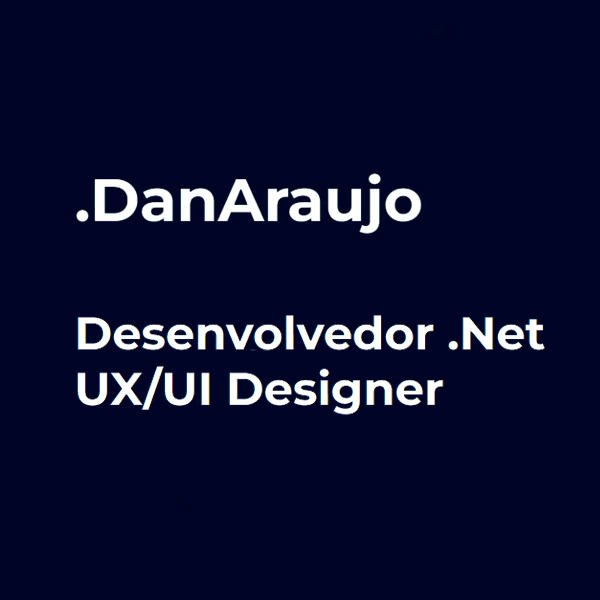
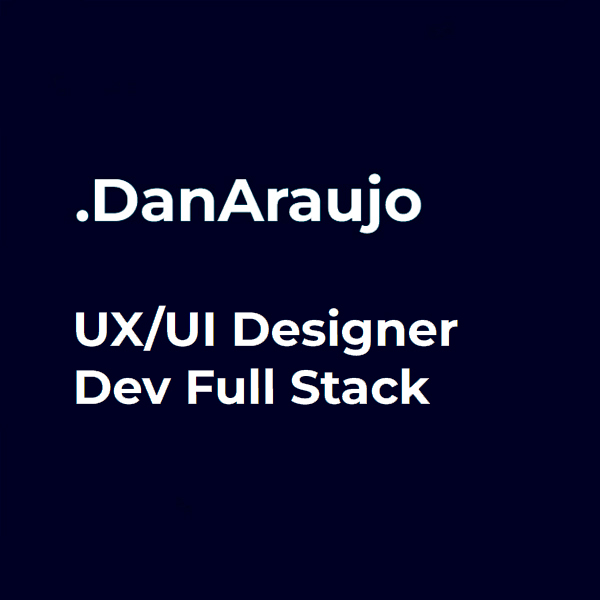
UP textos

Changed region(s): [[0.12, 0.51, 0.9, 0.69]]

diff --git a/index.html b/index.html
@@ -8,7 +8,7 @@
   <meta content="Descrição"
     name="Olá! Eu sou o Danilo Araujo, bacharel em Design com ênfase em Programação Visual pela Universidade Presbiteriana Mackenzie, em São Paulo. Estudante nos cursos Análise e Desenvolvimento de Sistemas pela UNINTER, e Pós-Graduação UX Design pela Universidade Senac São Paulo.">
   <meta content="keywords"
-    name="Freelancer, Programador, Desenvolvedor .Net, C#, UX/UI Design, UX UI Design, Figma, UX Designer, UX Design, UI Designer, UI Design, Danilo Araujo">
+    name="Freelancer, Programador, Desenvolvedor Full Stack, C#, UX/UI Design, UX UI Design, Figma, UX Designer, UX Design, UI Designer, UI Design, Danilo Araujo">
   <meta content="author" name="Danilo Araujo">
   <meta property="og:type" content="website">
   <meta property="og:title" content="Portfólio">
@@ -101,7 +101,7 @@
       <div class="container">
         <div class="row">
           <div class="col-xl-4">
-            <h1 data-aos="fade-up">Desenvolvedor .Net<br> UX/UI Designer</h1>
+            <h1 data-aos="fade-up">UX/UI Designer<br> Dev Full Stack</h1>
             <blockquote data-aos="fade-up" data-aos-delay="100">
               <p>Olá! Eu sou o Danilo Araujo, bacharel em Design com ênfase em Programação Visual pela Universidade
                 Presbiteriana Mackenzie, em São Paulo. Estudante nos cursos Análise e Desenvolvimento de Sistemas pela
@@ -171,14 +171,14 @@
                 <div class="col-md-6">
                   <div class="icon-list d-flex">
                     <i class="bi bi-chevron-right"></i>
-                    <span>Node.js / Angular / TypeScript</span>
+                    <span>Node.js / React / Angular / TypeScript</span>
                   </div>
                 </div><!-- End Icon List Item-->
 
                 <div class="col-md-6">
                   <div class="icon-list d-flex">
                     <i class="bi bi-chevron-right"></i>
-                    <span>Desenvolvimento .Net / C#</span>
+                    <span>Visual Studio Code / .Net / C#</span>
                   </div>
                 </div><!-- End Icon List Item-->
 
@@ -261,8 +261,8 @@
             <div class="servicos-box service-item d-flex">
               <div class="icon flex-shrink-0"><i class="bi bi-window-stack"></i></div>
               <div>
-                <h4 class="title">Desenvolvedor .Net</h4>
-                <p class="description">Projetos de aplicações para desktop, web e mobile. Desenvolvimento .Net, utilizando linguagens como HTML, CSS, JavaScript, TypeScript, C#, .Net, Node.js, Angular, Banco de Dados, APIs e Figma.</p>
+                <h4 class="title">Desenvolvedor Full Stack</h4>
+                <p class="description">Desenvolvimento de aplicações e sites, utilizando linguagens como HTML, CSS, JavaScript, TypeScript, C#, .Net, Node.js, React, Angular, Banco de Dados, APIs e prototipagem Figma.</p>
               </div>
             </div>
           </div><!-- End Service Item -->
@@ -672,7 +672,7 @@
             <h4>Serviços</h4>
             <ul>
               <li><a href="#servicos">UX/UI Designer</a></li>
-              <li><a href="#servicos">Desenvolvedor .Net</a></li>
+              <li><a href="#servicos">Desenvolvedor Full Stack</a></li>
             </ul>
           </div>
 

diff --git a/amazonia-edu-simoes.html b/amazonia-edu-simoes.html
@@ -236,7 +236,7 @@
             <h4>Serviços</h4>
             <ul>
               <li><a href="index.html#servicos">UX/UI Designer</a></li>
-              <li><a href="index.html#servicos">Desenvolvedor .Net</a></li>        
+              <li><a href="index.html#servicos">Desenvolvedor Full Stack</a></li>        
             </ul>
           </div>
 

diff --git a/colecao-grandes-mestres.html b/colecao-grandes-mestres.html
@@ -242,7 +242,7 @@
             <h4>Serviços</h4>
             <ul>
               <li><a href="index.html#servicos">UX/UI Designer</a></li>
-              <li><a href="index.html#servicos">Desenvolvedor .Net</a></li>        
+              <li><a href="index.html#servicos">Desenvolvedor Full Stack</a></li>        
             </ul>
           </div>
 

diff --git a/di-vitto-pizzaria.html b/di-vitto-pizzaria.html
@@ -221,7 +221,7 @@
             <h4>Serviços</h4>
             <ul>
               <li><a href="index.html#servicos">UX/UI Designer</a></li>
-              <li><a href="index.html#servicos">Desenvolvedor .Net</a></li>        
+              <li><a href="index.html#servicos">Desenvolvedor Full Stack</a></li>        
             </ul>
           </div>
 

diff --git a/ibac-brasil.html b/ibac-brasil.html
@@ -242,7 +242,7 @@
             <h4>Serviços</h4>
             <ul>
               <li><a href="index.html#servicos">UX/UI Designer</a></li>
-              <li><a href="index.html#servicos">Desenvolvedor .Net</a></li>        
+              <li><a href="index.html#servicos">Desenvolvedor Full Stack</a></li>        
             </ul>
           </div>
 

diff --git a/lucas-araujo.html b/lucas-araujo.html
@@ -226,7 +226,7 @@
             <h4>Serviços</h4>
             <ul>
               <li><a href="index.html#servicos">UX/UI Designer</a></li>
-              <li><a href="index.html#servicos">Desenvolvedor .Net</a></li>        
+              <li><a href="index.html#servicos">Desenvolvedor Full Stack</a></li>        
             </ul>
           </div>
 

diff --git a/new-tech-construtora.html b/new-tech-construtora.html
@@ -224,7 +224,7 @@
             <h4>Serviços</h4>
             <ul>
               <li><a href="index.html#servicos">UX/UI Designer</a></li>
-              <li><a href="index.html#servicos">Desenvolvedor .Net</a></li>        
+              <li><a href="index.html#servicos">Desenvolvedor Full Stack</a></li>        
             </ul>
           </div>
 

diff --git a/recanto-dos-avos.html b/recanto-dos-avos.html
@@ -233,7 +233,7 @@
             <h4>Serviços</h4>
             <ul>
               <li><a href="index.html#servicos">UX/UI Designer</a></li>
-              <li><a href="index.html#servicos">Desenvolvedor .Net</a></li>        
+              <li><a href="index.html#servicos">Desenvolvedor Full Stack</a></li>        
             </ul>
           </div>
 

diff --git a/restaurante-acarau.html b/restaurante-acarau.html
@@ -229,7 +229,7 @@
             <h4>Serviços</h4>
             <ul>
               <li><a href="index.html#servicos">UX/UI Designer</a></li>
-              <li><a href="index.html#servicos">Desenvolvedor .Net</a></li>        
+              <li><a href="index.html#servicos">Desenvolvedor Full Stack</a></li>        
             </ul>
           </div>
 

diff --git a/revista-elite-magazine.html b/revista-elite-magazine.html
@@ -234,7 +234,7 @@
             <h4>Serviços</h4>
             <ul>
               <li><a href="index.html#servicos">UX/UI Designer</a></li>
-              <li><a href="index.html#servicos">Desenvolvedor .Net</a></li>        
+              <li><a href="index.html#servicos">Desenvolvedor Full Stack</a></li>        
             </ul>
           </div>
 

diff --git a/revista-pastoral-da-crianca.html b/revista-pastoral-da-crianca.html
@@ -234,7 +234,7 @@
             <h4>Serviços</h4>
             <ul>
               <li><a href="index.html#servicos">UX/UI Designer</a></li>
-              <li><a href="index.html#servicos">Desenvolvedor .Net</a></li>        
+              <li><a href="index.html#servicos">Desenvolvedor Full Stack</a></li>        
             </ul>
           </div>
 

diff --git a/revista-recorte-em-cartaz.html b/revista-recorte-em-cartaz.html
@@ -265,7 +265,7 @@
             <h4>Serviços</h4>
             <ul>
               <li><a href="index.html#servicos">UX/UI Designer</a></li>
-              <li><a href="index.html#servicos">Desenvolvedor .Net</a></li>        
+              <li><a href="index.html#servicos">Desenvolvedor Full Stack</a></li>        
             </ul>
           </div>
 
